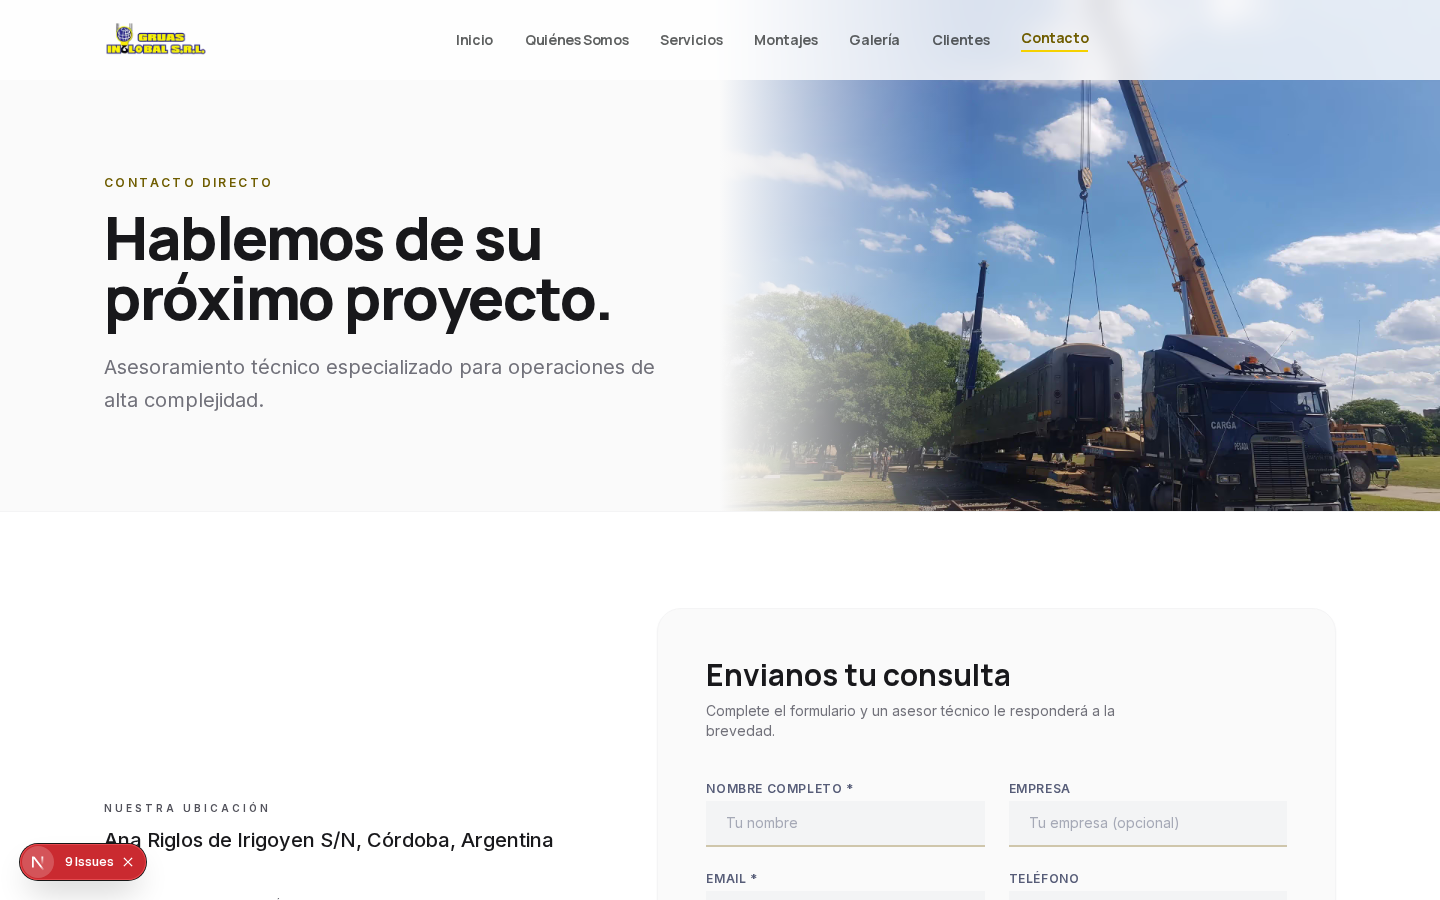
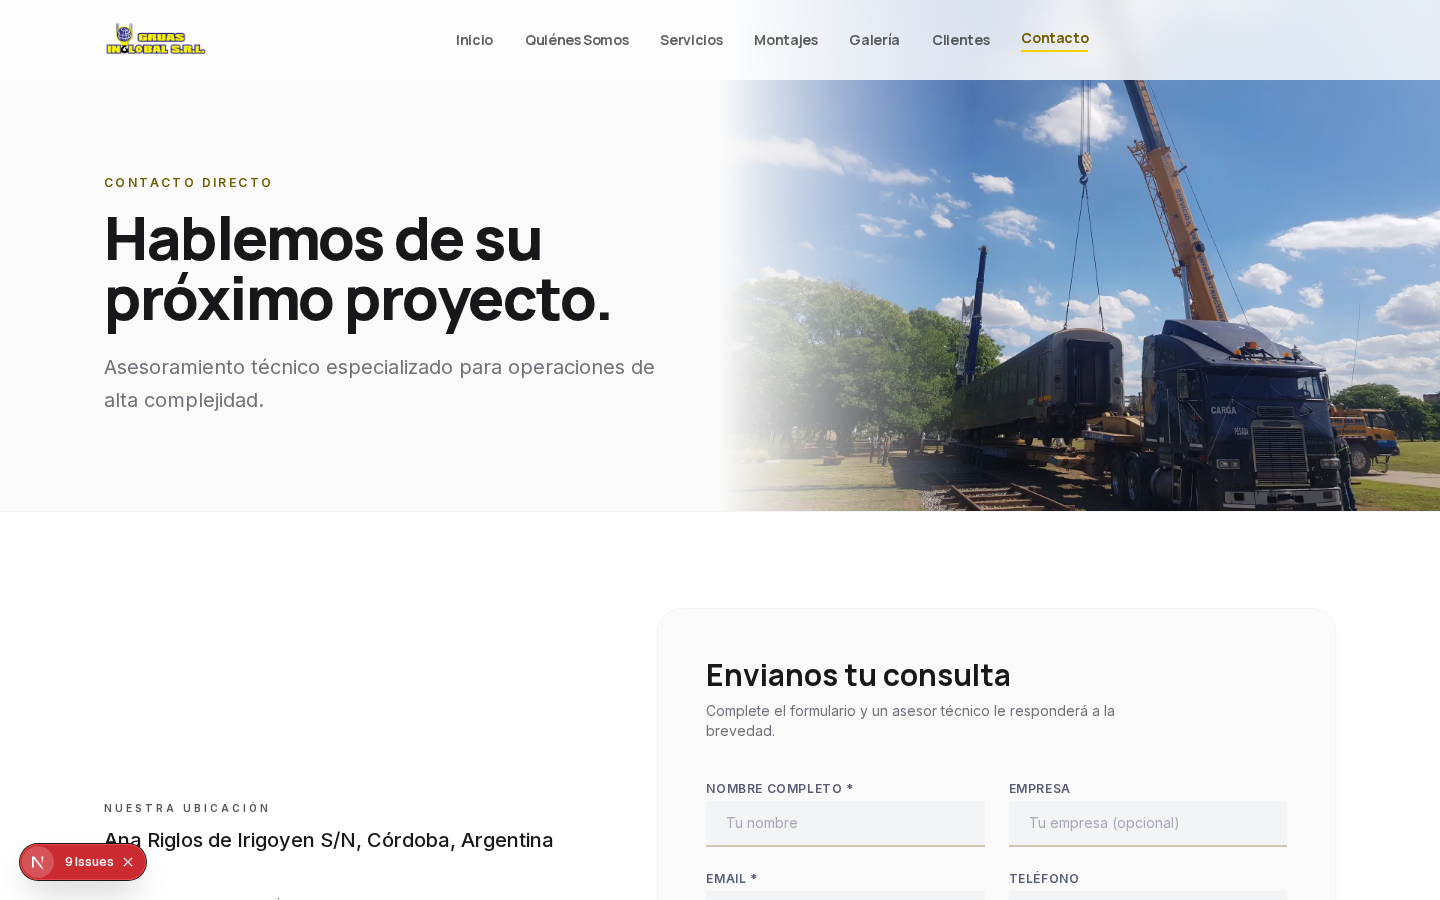
fix(contacto): foto centrada abajo por defecto para no cortar el camion

Changed region(s): [[0.5312, 0.0622, 1.0, 0.5911]]

diff --git a/app/dashboard/(panel)/contenido/contacto-header/ContactoHeaderForm.tsx b/app/dashboard/(panel)/contenido/contacto-header/ContactoHeaderForm.tsx
@@ -44,7 +44,7 @@ export default function ContactoHeaderForm({ settings }: { settings: Record<stri
         defaultValue={settings.image as string | null}
         folder="contacto"
         focalName="image_focal"
-        focalDefaultValue={settings.image_focal as string | null}
+        focalDefaultValue={(settings.image_focal as string | null) ?? "50% 100%"}
         hint="Se muestra en la mitad derecha del encabezado de /contacto, con la mitad izquierda en blanco. Marcá en la foto qué parte querés que se vea. Si no se carga, usa una foto por defecto del sitio."
       />
       <TextField label="Texto alternativo de la foto" name="image_alt" defaultValue={settings.image_alt as string} placeholder="Grúa telescópica de Grúas InGlobal en operación" hint="Describe la foto para lectores de pantalla y buscadores." />

diff --git a/app/contacto/page.tsx b/app/contacto/page.tsx
@@ -35,7 +35,7 @@ export default async function ContactoPage() {
   const headingLines = ((s.heading as string) || 'Hablemos de su\npróximo proyecto.').split('\n')
   const headerImage = (s.image as string) || 'igb-1'
   const headerImageAlt = (s.image_alt as string) || 'Grúa telescópica de Grúas InGlobal en operación'
-  const headerImageFocal = (s.image_focal as string) || null
+  const headerImageFocal = (s.image_focal as string) || '50% 100%' // centrado abajo: no corta el camion de la foto por defecto
   const headerImageStyle = headerImageFocal ? { objectPosition: headerImageFocal } : undefined
   const whatsapp = (s.whatsapp as string) || 'https://wa.me/5493513454244'
   const instagram = (s.instagram as string) || 'https://www.instagram.com/gruasinglobal'
